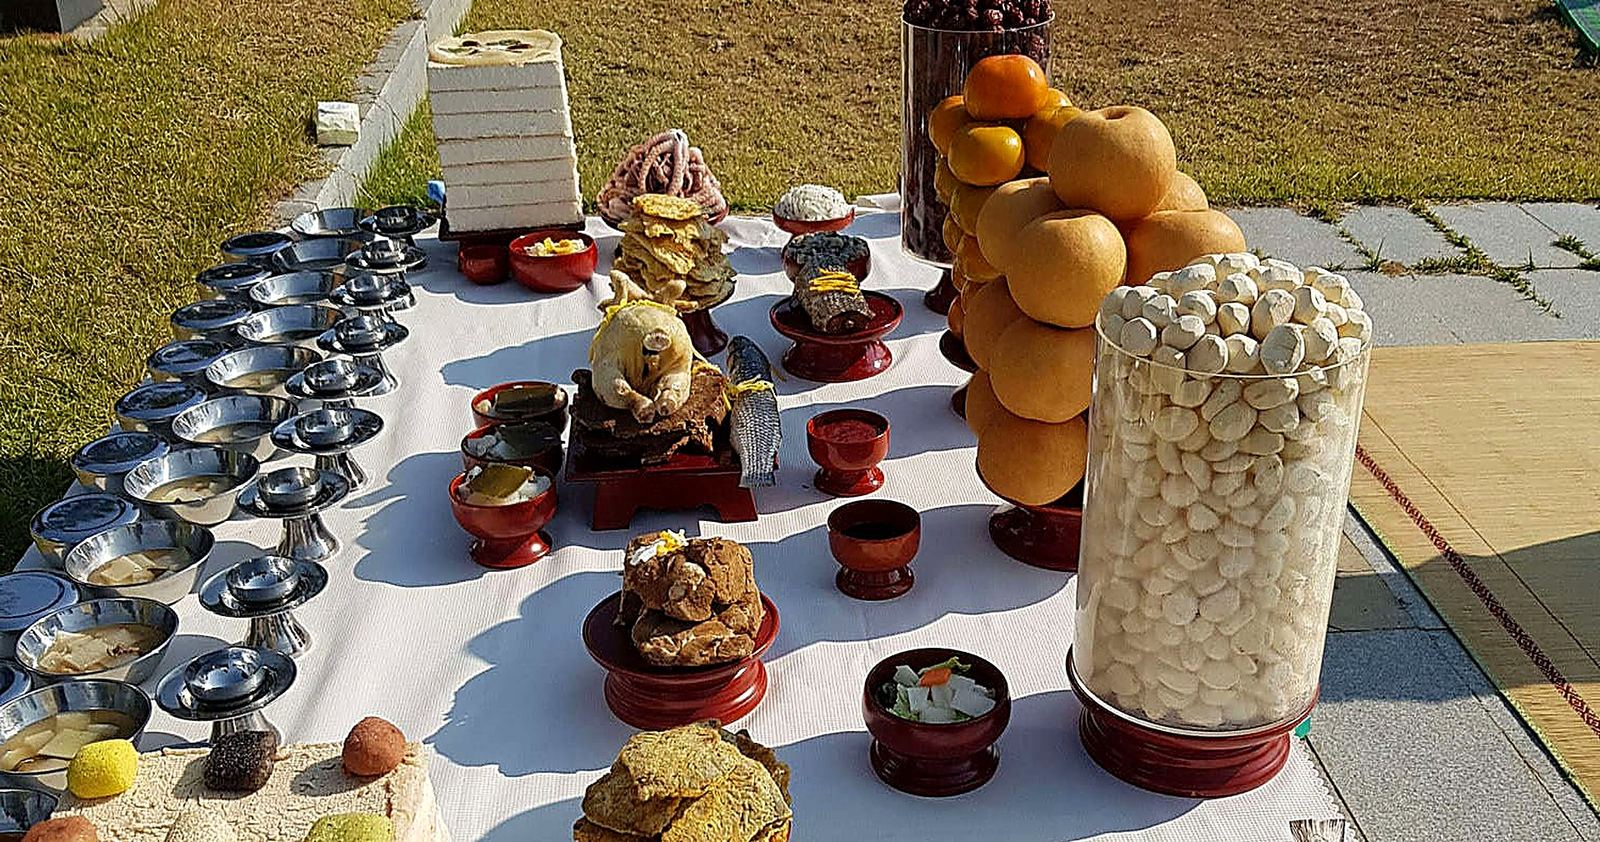
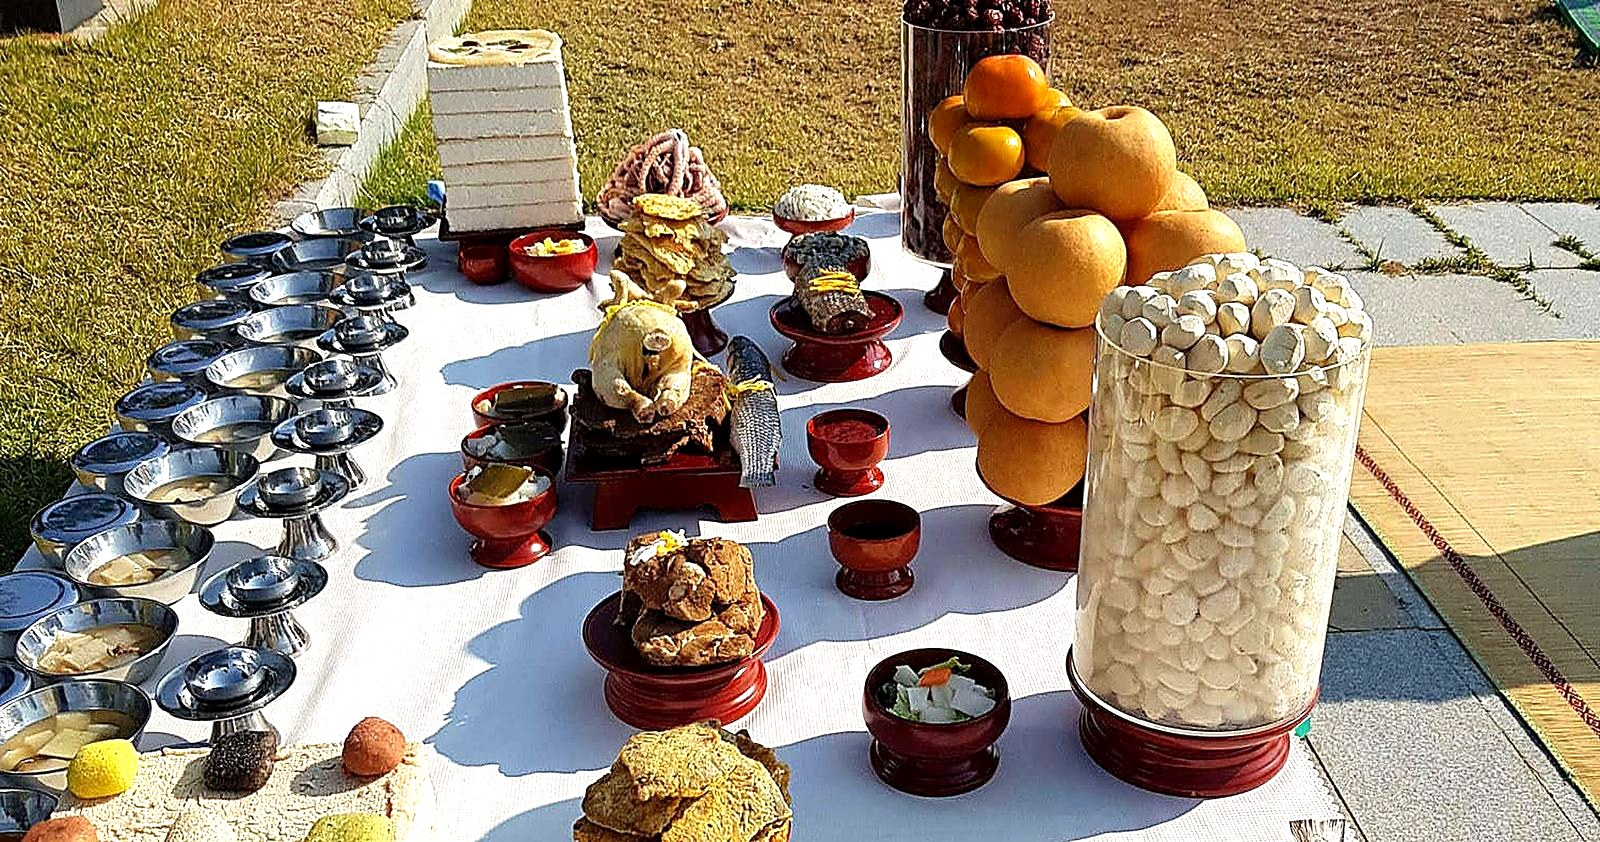
히어로 배경 사진 한 번 더 밝게
사진 자체 밝기를 올리고(약 22%), 위에 덮이는 어두운 그라데이션도 더 옅게 함.
글자가 흐려 보이지 않도록 글자 그림자를 이중으로 강하게 줘서 보완.

diff --git a/css/style.css b/css/style.css
@@ -219,8 +219,8 @@ button { font-family: inherit; cursor: pointer; }
   position: absolute;
   inset: 0;
   background:
-    linear-gradient(100deg, rgba(26,14,12,0.72) 0%, rgba(26,14,12,0.6) 34%, rgba(26,14,12,0.38) 66%, rgba(26,14,12,0.26) 100%),
-    linear-gradient(180deg, rgba(26,14,12,0.08) 0%, rgba(26,14,12,0) 40%, rgba(26,14,12,0.4) 100%);
+    linear-gradient(100deg, rgba(26,14,12,0.5) 0%, rgba(26,14,12,0.4) 34%, rgba(26,14,12,0.24) 66%, rgba(26,14,12,0.14) 100%),
+    linear-gradient(180deg, rgba(26,14,12,0.05) 0%, rgba(26,14,12,0) 40%, rgba(26,14,12,0.28) 100%);
 }
 
 .hero__inner { position: relative; text-align: left; max-width: 680px; margin: 0; padding: 104px var(--space-6); }
@@ -236,7 +236,7 @@ button { font-family: inherit; cursor: pointer; }
   margin-bottom: var(--space-4);
 }
 .eyebrow--light {
-  background: rgba(0,0,0,0.36);
+  background: rgba(0,0,0,0.48);
   color: var(--color-cream-light);
   border: 1px solid rgba(240,223,192,0.55);
   text-shadow: 0 1px 6px rgba(0,0,0,0.6);
@@ -246,7 +246,7 @@ button { font-family: inherit; cursor: pointer; }
   line-height: 1.4;
   font-weight: var(--weight-bold);
   color: var(--color-white);
-  text-shadow: 0 2px 16px rgba(0,0,0,0.65);
+  text-shadow: 0 1px 3px rgba(0,0,0,0.85), 0 4px 20px rgba(0,0,0,0.6);
 }
 .hero__desc {
   margin: var(--space-6) 0 0;
@@ -254,7 +254,7 @@ button { font-family: inherit; cursor: pointer; }
   font-size: var(--text-lg);
   font-weight: var(--weight-medium); /* 사진 위라 본문보다 한 단계 굵게 */
   max-width: 520px;
-  text-shadow: 0 1px 10px rgba(0,0,0,0.7);
+  text-shadow: 0 1px 3px rgba(0,0,0,0.85), 0 3px 14px rgba(0,0,0,0.6);
 }
 .hero__actions {
   display: flex;
